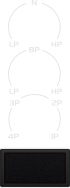
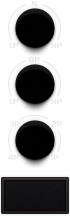
New skin updates etc (#181)
LCD displays are now more clickable (wider hitzones)

Fixed filter mode and option labels

Renamed Legato Mode menu entries (soon to become Env Legato parameter)

Filter.h has more consistent (and some are clearer) variable names

MIDI devices listbox now has a better fitting row selected color

diff --git a/src/engine/Filter.h b/src/engine/Filter.h
@@ -30,20 +30,18 @@ class Filter
 {
   private:
     float s1, s2, s3, s4;
-    float R;
-    float R24;
-    float rcor, rcorInv;
-    float rcor24, rcor24Inv;
+    float R12, R24;
+    float rcor12, rcorInv12;
+    float rcor24, rcorInv24;
 
-    // 24 db multimode
-    float mmt;
-    int mmch;
+    float multimodeXfade;
+    int multimodePole;
 
   public:
     float sampleRate;
     float sampleRateInv;
     bool bandPassSw;
-    float mm;
+    float multimode;
     bool selfOscPush;
     bool xpander;
     uint8_t xpanderMode;
@@ -54,23 +52,23 @@ class Filter
         xpander = false;
         xpanderMode = 0;
         bandPassSw = false;
-        mm = 0.f;
+        multimode = 0.f;
         s1 = s2 = s3 = s4 = 0.f;
         sampleRate = 44000.f;
         sampleRateInv = 1.f / sampleRate;
-        rcor = 500.f / 44000.f;
-        rcorInv = 1.f / rcor;
+        rcor12 = 500.f / 44000.f;
+        rcorInv12 = 1.f / rcor12;
         rcor24 = 970.f / 44000.f;
-        rcor24Inv = 1.f / rcor24;
-        R = 1.f;
+        rcorInv24 = 1.f / rcor24;
+        R12 = 1.f;
         R24 = 0.f;
     }
 
     void setMultimode(float m)
     {
-        mm = m;
-        mmch = (int)(mm * 3);
-        mmt = mm * 3 - mmch;
+        multimode = m;
+        multimodePole = (int)(multimode * 3);
+        multimodeXfade = multimode * 3 - multimodePole;
     }
 
     inline void setSampleRate(float sr)
@@ -80,57 +78,51 @@ class Filter
 
         float rcrate = sqrt((44000.f / sampleRate));
 
-        rcor = (500.f / 44000.f) * rcrate;
+        rcor12 = (500.f / 44000.f) * rcrate;
         rcor24 = (970.f / 44000.f) * rcrate;
-        rcorInv = 1.f / rcor;
-        rcor24Inv = 1.f / rcor24;
+        rcorInv12 = 1.f / rcor12;
+        rcorInv24 = 1.f / rcor24;
     }
 
     inline void setResonance(float res)
     {
-        R = 1.f - res;
+        R12 = 1.f - res;
         R24 = (3.5f * res);
     }
 
     inline float diodePairResistanceApprox(float x)
     {
-        // Taylor approx of slightly mismatched diode pair
+        // Taylor approximation of a slightly mismatched diode pair
         return (((((0.0103592f) * x + 0.00920833f) * x + 0.185f) * x + 0.05f) * x + 1.f);
     }
 
-    // resolve 0-delay feedback
-    inline float NR(float sample, float g)
+    inline float resolveFeedback2Pole(float sample, float g)
     {
-        // calculating feedback non-linear transconducance and compensated for R(-1)
+        // calculating feedback non-linear transconducance and compensated for R12(-1)
         float tCfb;
 
-        if (!selfOscPush)
-            tCfb = diodePairResistanceApprox(s1 * 0.0876f) - 1.f;
-        else
-            // boosting non-linearity
-            tCfb = diodePairResistanceApprox(s1 * 0.0876f) - 1.035f;
+        // boosting non-linearity
+        float push = -1.f - (selfOscPush * 0.035f);
 
-        // disable non-linearity == digital filter
-        // float tCfb = 0;
+        tCfb = diodePairResistanceApprox(s1 * 0.0876f) + push;
+
+        // disable non-linearity (digital filter)
+        // tCfb = 0;
 
         // resolve linear feedback
-        float y =
-            ((sample - 2.f * (s1 * (R + tCfb)) - g * s1 - s2) / (1.f + g * (2.f * (R + tCfb) + g)));
-
-        // float y = ((sample - 2.f * (s1 * (R + tCfb)) - g2 * s1  - s2) / (1.f + g1 * (2.f * (R +
-        // tCfb) + g2)));
+        float y = ((sample - 2.f * (s1 * (R12 + tCfb)) - g * s1 - s2) /
+                   (1.f + g * (2.f * (R12 + tCfb) + g)));
 
         return y;
     }
 
-    inline float Apply2Pole(float sample, float g)
+    inline float apply2Pole(float sample, float g)
     {
-        float gpw = tanf(g * sampleRateInv * juce::MathConstants<float>::pi);
+        float gpw = tanf(g * sampleRateInv * pi);
 
         g = gpw;
 
-        // float v = ((sample - R * s1 * 2 - g2 * s1 - s2) / (1.f + R * g1 * 2.f + g1 * g2));
-        float v = NR(sample, g);
+        float v = resolveFeedback2Pole(sample, g);
 
         float y1 = v * g + s1;
         s1 = v * g + y1;
@@ -138,22 +130,22 @@ class Filter
         float y2 = y1 * g + s2;
         s2 = y1 * g + y2;
 
-        float mc;
+        float out;
 
         if (!bandPassSw)
         {
-            mc = (1.f - mm) * y2 + (mm)*v;
+            out = (1.f - multimode) * y2 + (multimode * v);
         }
         else
         {
-            mc = 2.f *
-                 (mm < 0.5f ? ((0.5f - mm) * y2 + (mm)*y1) : ((1.f - mm) * y1 + (mm - 0.5f) * v));
+            out = 2.f * (multimode < 0.5f ? ((0.5f - multimode) * y2 + (multimode * y1))
+                                          : ((1.f - multimode) * y1 + (multimode - 0.5f) * v));
         }
 
-        return mc;
+        return out;
     }
 
-    inline float NR24(float sample, float g, float lpc)
+    inline float resolveFeedback4Pole(float sample, float g, float lpc)
     {
         float ml = 1.f / (1.f + g);
         float S = (lpc * (lpc * (lpc * s1 + s2) + s3) + s4) * ml;
@@ -163,50 +155,58 @@ class Filter
         return y;
     }
 
-    inline float Apply4Pole(float sample, float g)
+    inline float apply4Pole(float sample, float g)
     {
-        float g1 = (float)tan(g * sampleRateInv * juce::MathConstants<float>::pi);
+        float g1 = (float)tan(g * sampleRateInv * pi);
         g = g1;
 
         float lpc = g / (1.f + g);
-        float y0 = NR24(sample, g, lpc);
+        float y0 = resolveFeedback4Pole(sample, g, lpc);
 
-        // first low pass in cascade
+        // first lowpass in the cascade
         double v = (y0 - s1) * lpc;
         double res = v + s1;
 
         s1 = res + v;
 
         // damping
-        s1 = atan(s1 * rcor24) * rcor24Inv;
+        s1 = atan(s1 * rcor24) * rcorInv24;
 
         float y1 = res;
         float y2 = tpt_process(s2, y1, g);
         float y3 = tpt_process(s3, y2, g);
         float y4 = tpt_process(s4, y3, g);
-        float mc;
+        float out;
 
-        switch (mmch)
+        if (xpander)
         {
-        case 0:
-            mc = ((1.f - mmt) * y4 + (mmt)*y3);
-            break;
-        case 1:
-            mc = ((1.f - mmt) * y3 + (mmt)*y2);
-            break;
-        case 2:
-            mc = ((1.f - mmt) * y2 + (mmt)*y1);
-            break;
-        case 3:
-            mc = y1;
-            break;
-        default:
-            mc = 0.f;
-            break;
+            // TODO Pole mixing!
+            out = 0.f;
+        }
+        else
+        {
+            switch (multimodePole)
+            {
+            case 0:
+                out = ((1.f - multimodeXfade) * y4 + (multimodeXfade)*y3);
+                break;
+            case 1:
+                out = ((1.f - multimodeXfade) * y3 + (multimodeXfade)*y2);
+                break;
+            case 2:
+                out = ((1.f - multimodeXfade) * y2 + (multimodeXfade)*y1);
+                break;
+            case 3:
+                out = y1;
+                break;
+            default:
+                out = 0.f;
+                break;
+            }
         }
 
-        // half volume comp
-        return mc * (1.f + R24 * 0.45f);
+        // half volume compensation
+        return out * (1.f + R24 * 0.45f);
     }
 };
 

diff --git a/src/PluginEditor.cpp b/src/PluginEditor.cpp
@@ -1060,9 +1060,9 @@ void ObxfAudioProcessorEditor::loadSkin(ObxfAudioProcessor &ownerFilter)
 
     if (legatoList)
     {
-        legatoList->addChoice("Keep All");
-        legatoList->addChoice("Keep Filter Envelope");
-        legatoList->addChoice("Keep Amplitude Envelope");
+        legatoList->addChoice("Both Envelopes");
+        legatoList->addChoice("Filter Envelope");
+        legatoList->addChoice("Amplifier Envelope");
         legatoList->addChoice("Retrigger");
         const auto legatoOption = ownerFilter.getValueTreeState()
                                       .getParameter(paramManager.getEngineParameterId(LEGATOMODE))

diff --git a/src/gui/LookAndFeel.h b/src/gui/LookAndFeel.h
@@ -78,7 +78,7 @@ class LookAndFeel final : public juce::LookAndFeel_V4
         setColour(DocumentWindow::backgroundColourId, Colour(48, 48, 48));
         setColour(TextButton::buttonColourId, Colour(32, 32, 32));
         setColour(TextEditor::backgroundColourId, Colour(32, 32, 32));
-        setColour(ListBox::backgroundColourId, Colour(32, 32, 32));
+        setColour(TextEditor::highlightColourId, Colour(96, 96, 96));
         setColour(ListBox::backgroundColourId, Colour(32, 32, 32));
         setColour(ScrollBar::thumbColourId, Colour(212, 212, 212));
         setColour(ScrollBar::trackColourId, Colour(128, 128, 128));

diff --git a/src/engine/Voice.h b/src/engine/Voice.h
@@ -225,7 +225,7 @@ class Voice
         float x1 = oscps;
 
         x1 = tpt_process(d2, x1, brightCoef);
-        x1 = fourpole ? flt.Apply4Pole(x1, cutoffcalc) : flt.Apply2Pole(x1, cutoffcalc);
+        x1 = fourpole ? flt.apply4Pole(x1, cutoffcalc) : flt.apply2Pole(x1, cutoffcalc);
 
         x1 *= envVal;
 
